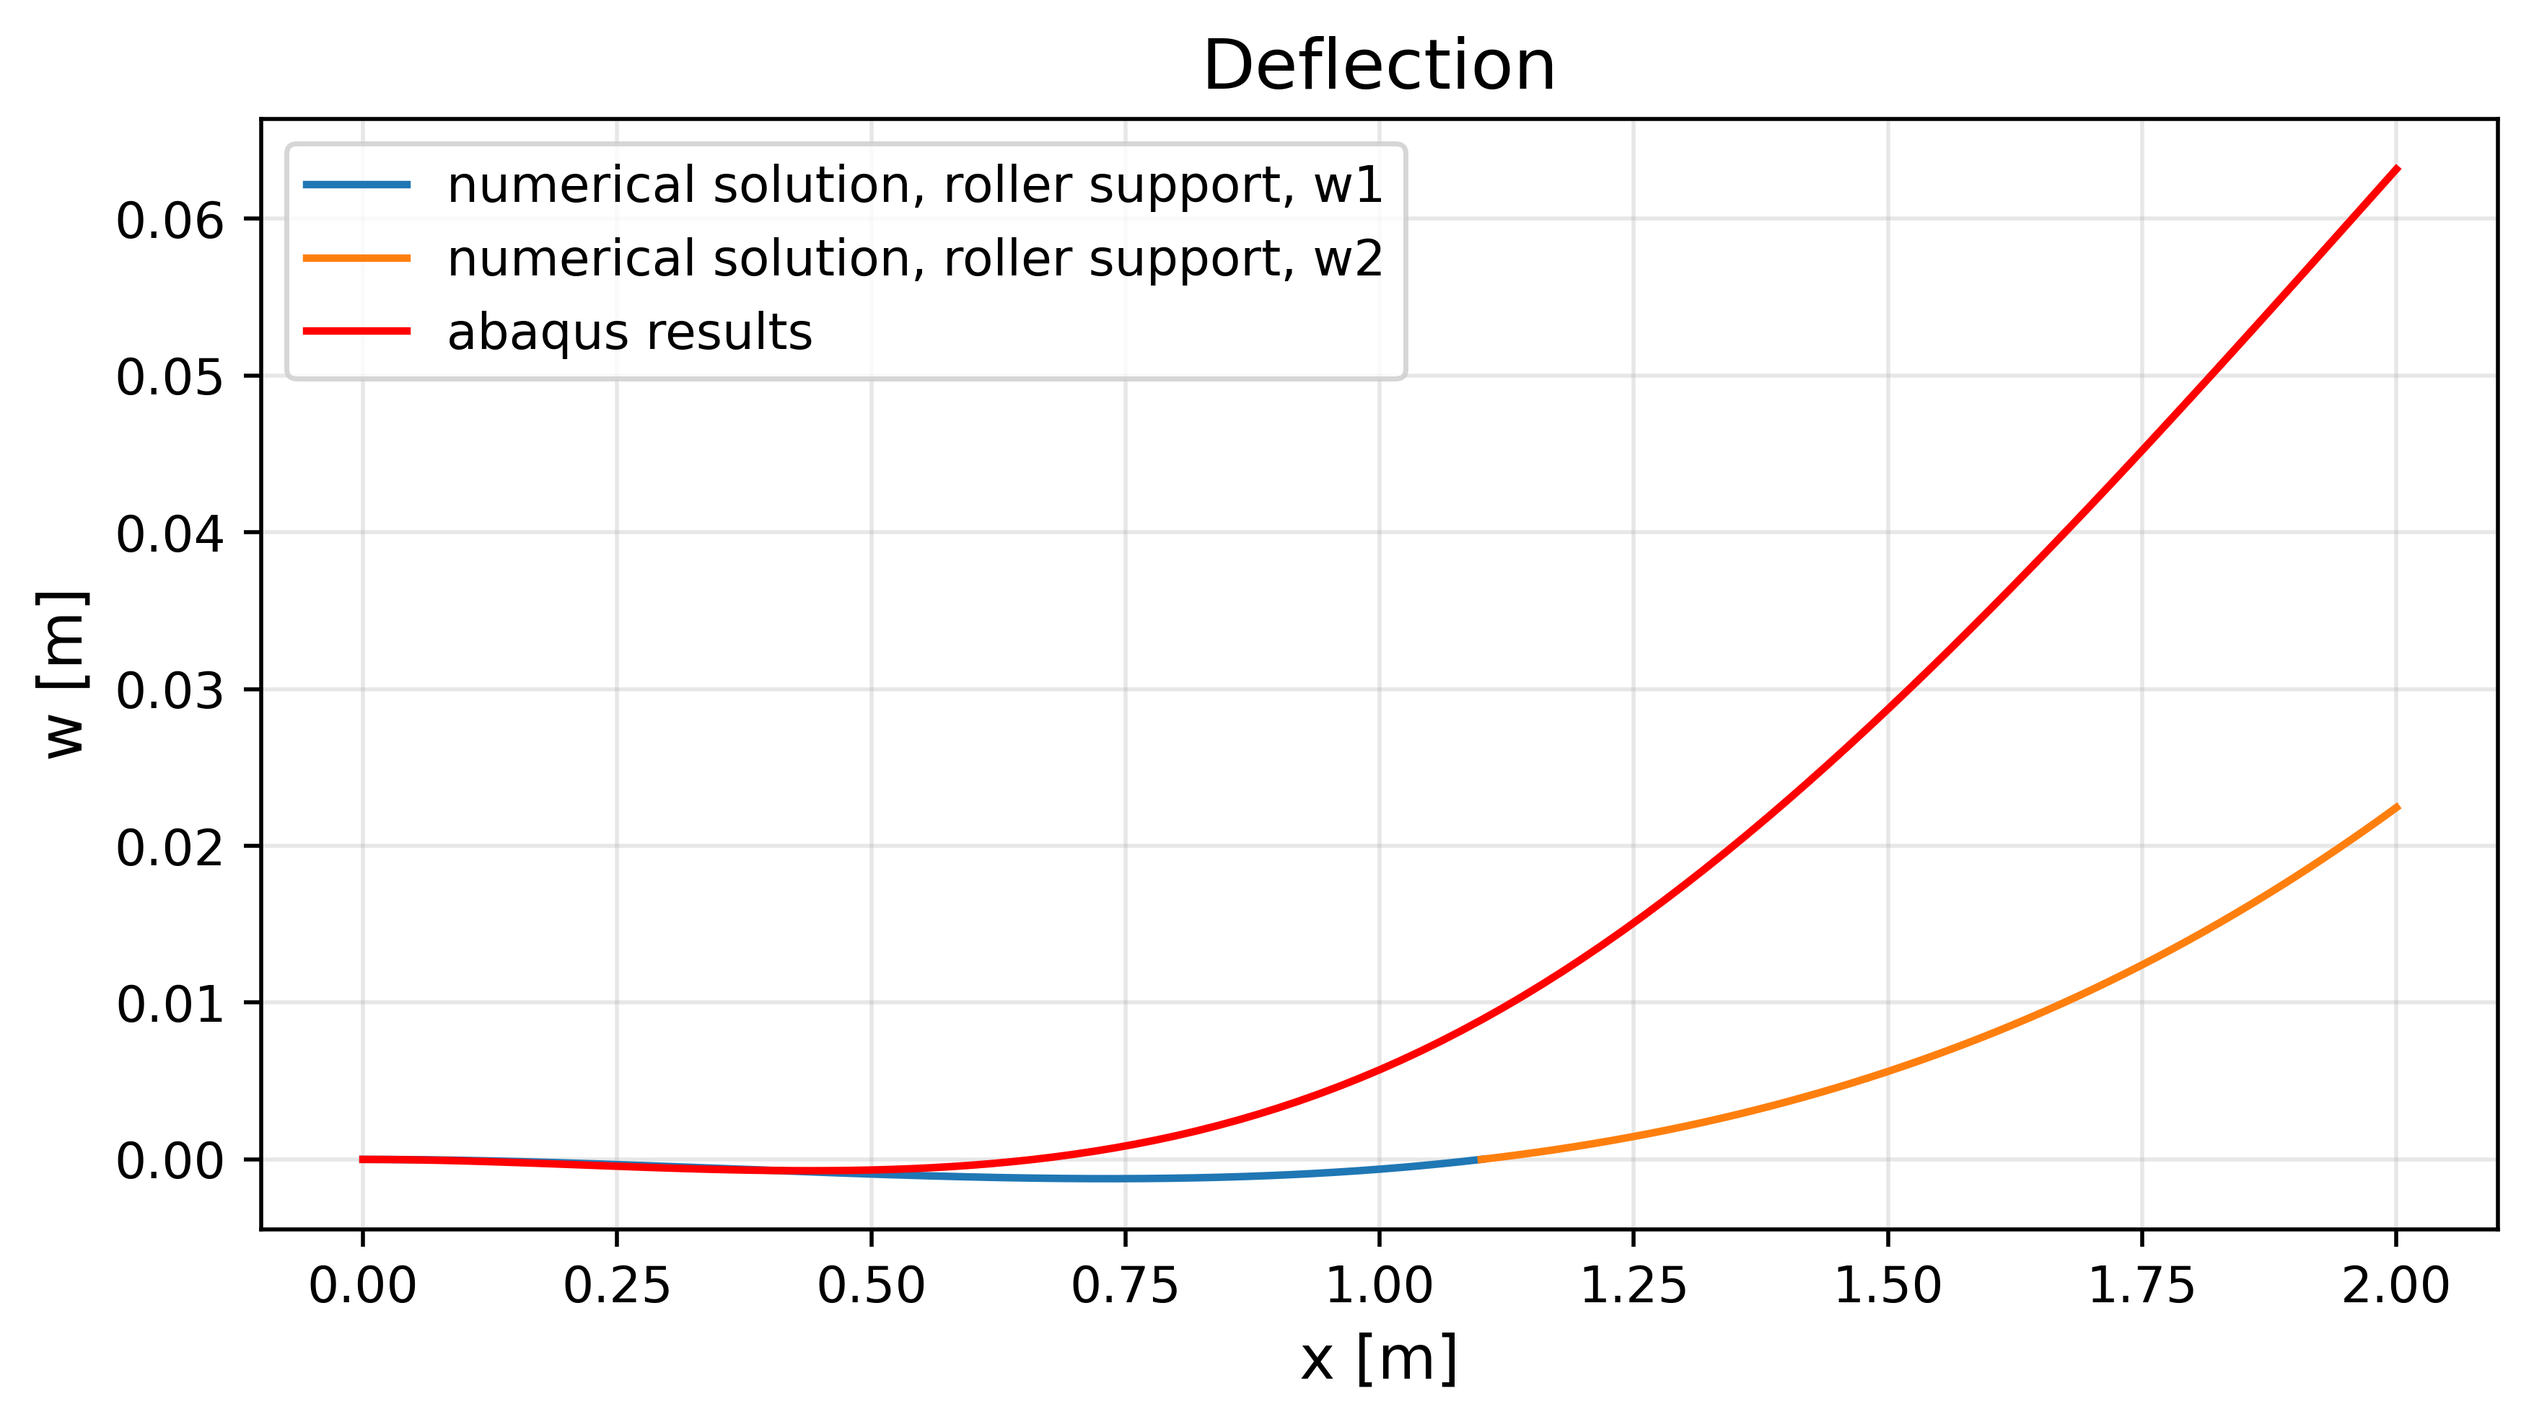
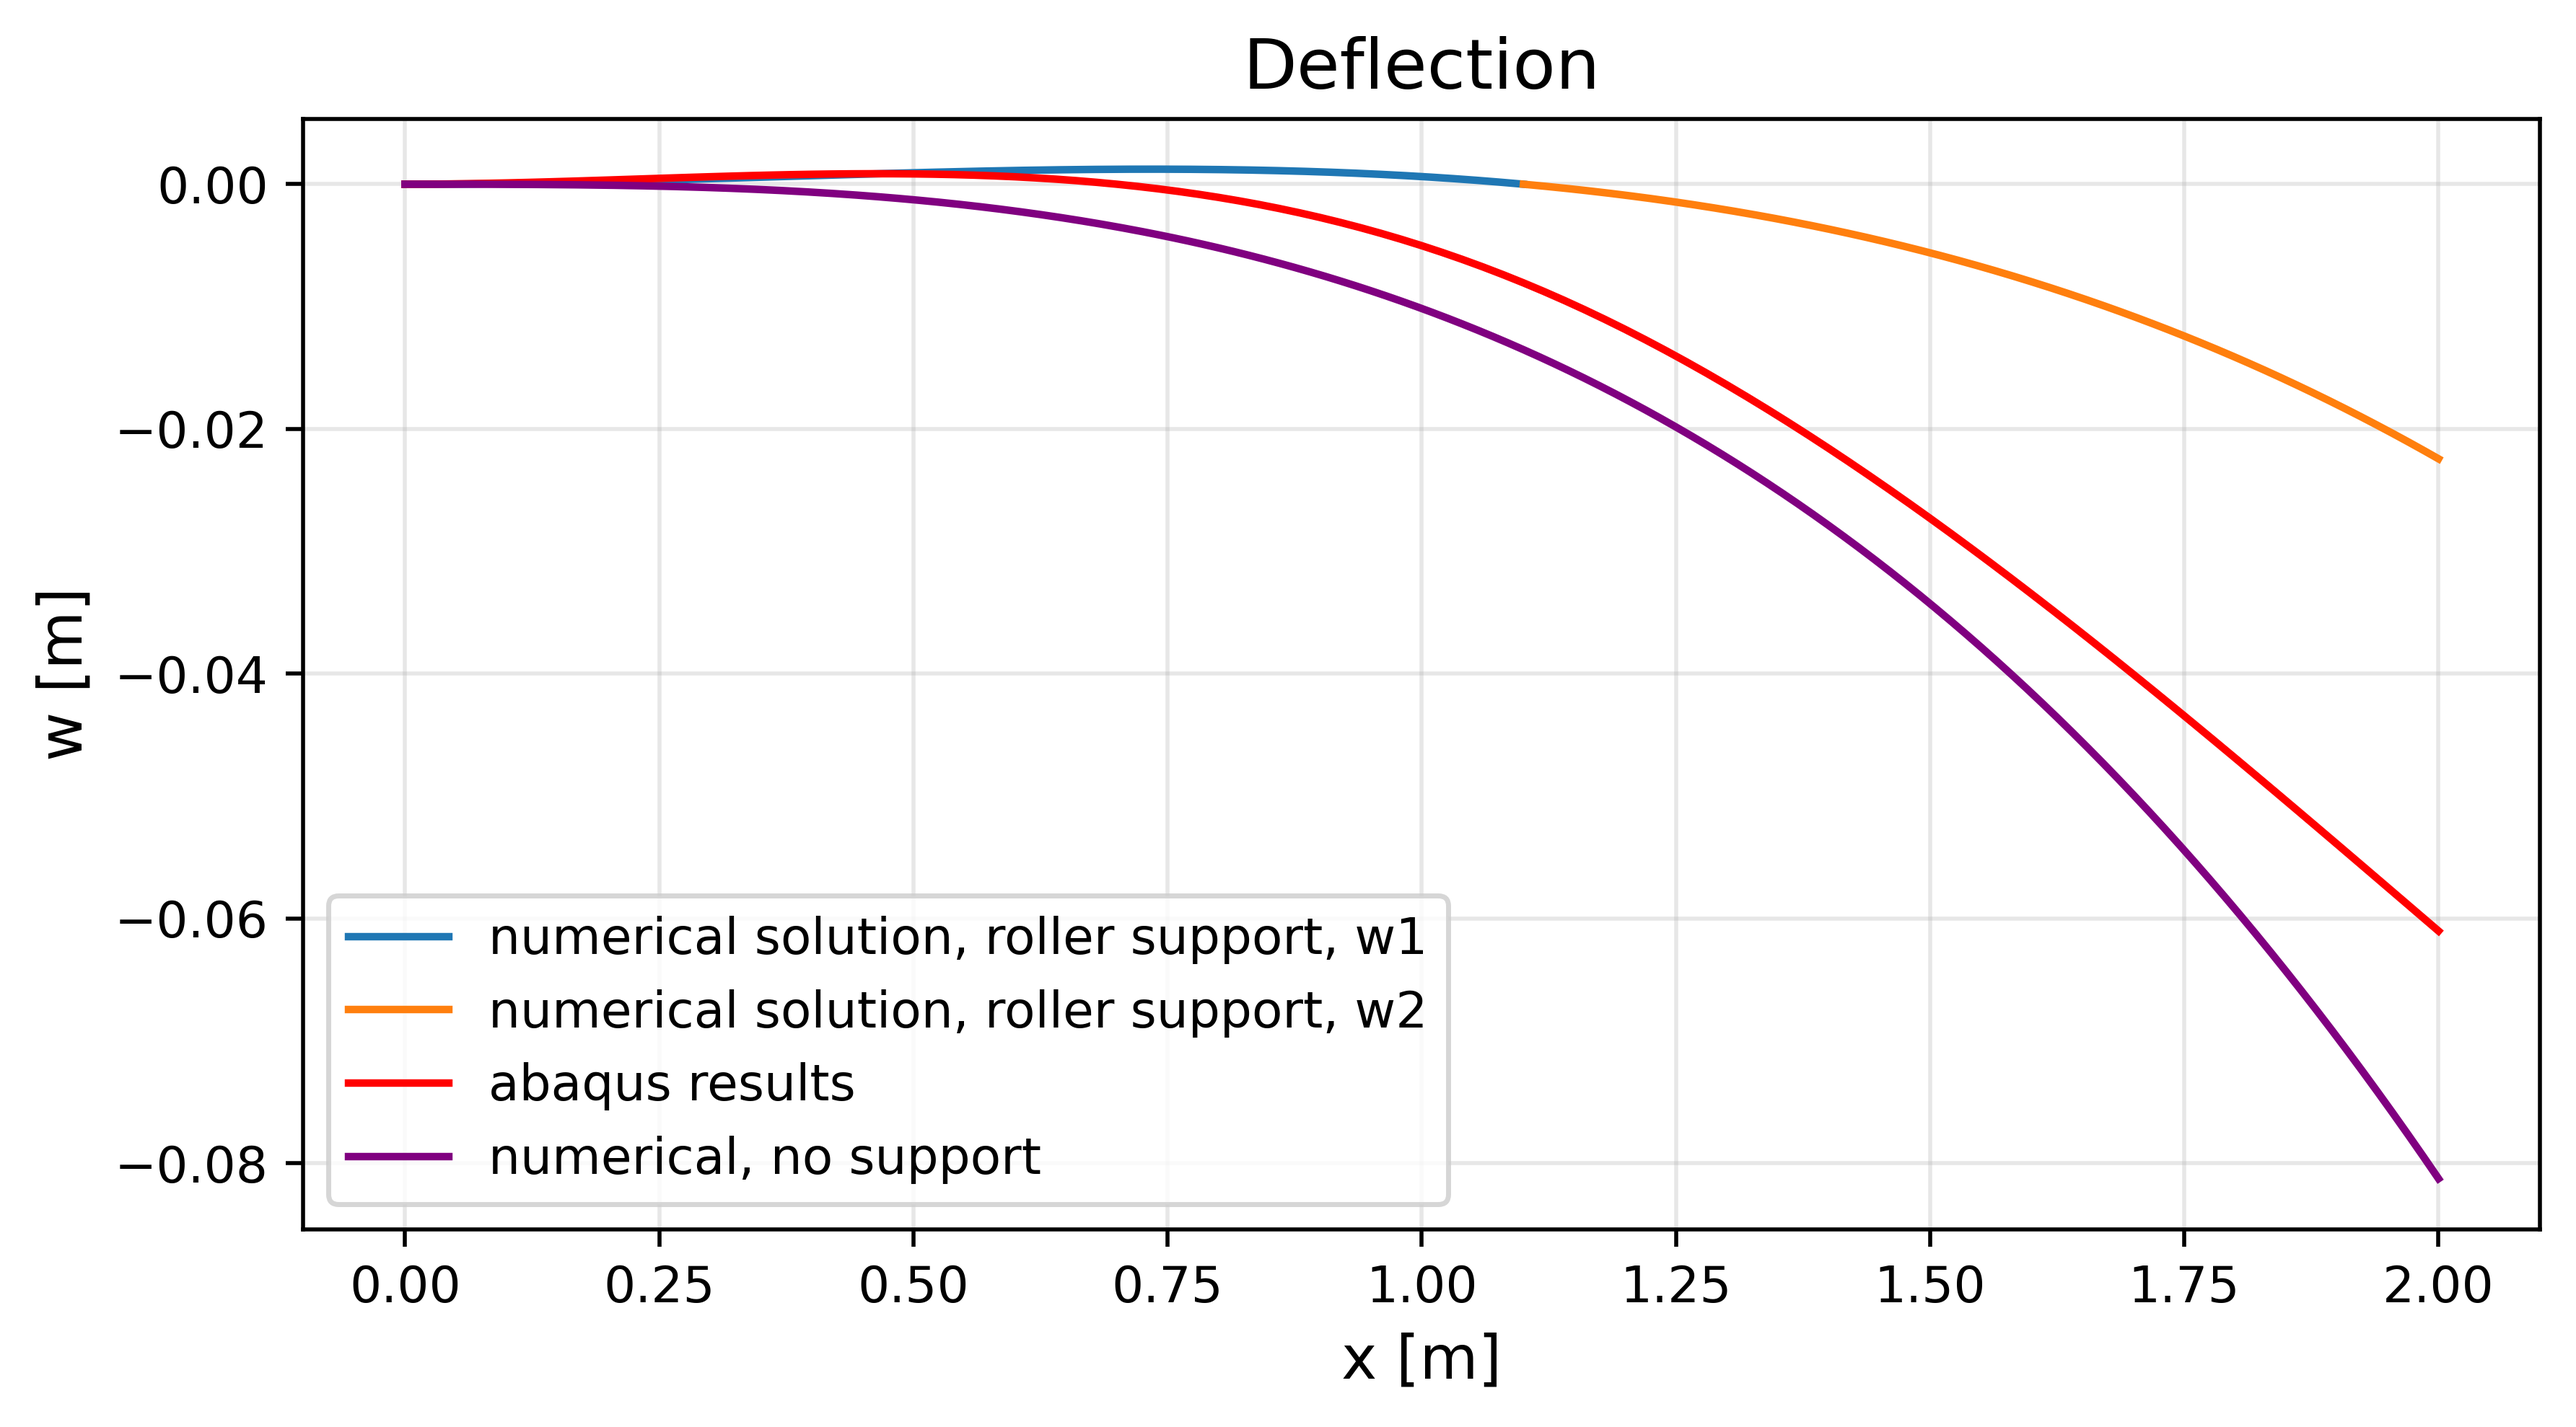
.

diff --git a/TME235/A3 & A4/A3&A4_final.py b/TME235/A3 & A4/A3&A4_final.py
@@ -611,7 +611,7 @@ fig('difference deflection')
 
 
 
-# Assignment 4 - numerical solution, roller support, P = -
+# Assignment 4 - numerical solution, roller support
 
 
 
@@ -619,13 +619,13 @@ fig('difference deflection')
 ####################################################################################################
 ####################################################################################################
 ####################################################################################################
-new_prob('4 - numerical solution, roller support, P = -')
+new_prob('4 - numerical solution, roller support')
 
 # Define symbols
 x, Fr, P, L1, L2, E4, I4, C1, C2, C3, C4 = symbols('x Fr P L1 L2 V4 E4 C1 C2 C3 C4', real=True) 
 
 # functions
-M1 = (P + Fr) * x - (Fr * L1 + P * L2)
+M1 = - (P + Fr) * x + (Fr * L1 + P * L2)
 M2 = - P * (L2 - x)
 
 V1 = M1.diff(x, 1)
@@ -675,25 +675,16 @@ print(w2_func(x_num, P_num, L1_num, L2_num, E4_num, I4_num))
 x1_vals = np.linspace(0, L1_num, 401)
 x2_vals = np.linspace(L1_num, L2_num, 401)
 
-w1_vals = w1_func(x1_vals, P_num, L1_num, L2_num, E4_num, I4_num)
-w2_vals = w1_func(x2_vals, P_num, L1_num, L2_num, E4_num, I4_num)
+w1_vals_pos = w1_func(x1_vals, P_num, L1_num, L2_num, E4_num, I4_num)
+w2_vals_pos = w1_func(x2_vals, P_num, L1_num, L2_num, E4_num, I4_num)
 
 plt.figure()
-plt.plot(x1_vals, w1_vals, label='numerical solution, roller support, w1')
-plt.plot(x2_vals, w2_vals, label='numerical solution, roller support, w2')
+plt.plot(x1_vals, w1_vals_pos, label='numerical solution, roller support, w1')
+plt.plot(x2_vals, w2_vals_pos, label='numerical solution, roller support, w2')
 plt.title('Deflection')
 plt.xlabel('x [m]')
 plt.ylabel('w [m]')
 fig('deflection numerical minus 10')
-
-plt.figure()
-plt.plot(x1_vals, w1_vals, label='numerical solution, roller support, w1')
-plt.plot(x2_vals, w2_vals, label='numerical solution, roller support, w2')
-plt.plot(X_minus_10, u2_minus_10, color='red', label='abaqus results')
-plt.title('Deflection')
-plt.xlabel('x [m]')
-plt.ylabel('w [m]')
-fig('deflection comparison minus 10')
 
 P_num = -4_000_000
 
@@ -711,14 +702,53 @@ plt.xlabel('x [m]')
 plt.ylabel('w [m]')
 fig('deflection numerical 10')
 
+#%%
+####################################################################################################
+####################################################################################################
+####################################################################################################
+####################################################################################################
+
+
+
+# Assignment 4 - comparison plots
+
+
+
+####################################################################################################
+####################################################################################################
+####################################################################################################
+####################################################################################################
+new_prob('4 - comparison plots')
+
+x_vals = np.linspace(0, L2_num, 401)
+
+def euler_bernoulli(x, P):
+    return (P * x**3) / (3 * E4_num * I4_num)
+
+P_num = 4_000_000
+
+euler_bernoulli_10_vals = euler_bernoulli(x_vals, P_num)
+euler_bernoulli_minus_10_vals = euler_bernoulli(x_vals, -P_num)
+
+plt.figure()
+plt.plot(x1_vals, w1_vals_pos, label='numerical solution, roller support, w1')
+plt.plot(x2_vals, w2_vals_pos, label='numerical solution, roller support, w2')
+plt.plot(X_10, u2_10, color='red', label='abaqus results')
+plt.plot(x_vals, euler_bernoulli_10_vals, color='purple', label='numerical, no support')
+plt.title('Deflection')
+plt.xlabel('x [m]')
+plt.ylabel('w [m]')
+fig('deflection comparison 10')
 
 plt.figure()
 plt.plot(x1_vals, w1_vals, label='numerical solution, roller support, w1')
 plt.plot(x2_vals, w2_vals, label='numerical solution, roller support, w2')
-plt.plot(X_10, u2_10, color='red', label='abaqus results')
+plt.plot(X_minus_10, u2_minus_10, color='red', label='abaqus results')
+plt.plot(x_vals, euler_bernoulli_minus_10_vals, color='purple', label='numerical, no support')
 plt.title('Deflection')
 plt.xlabel('x [m]')
 plt.ylabel('w [m]')
 fig('deflection comparison minus 10')
+
 
 #%%
